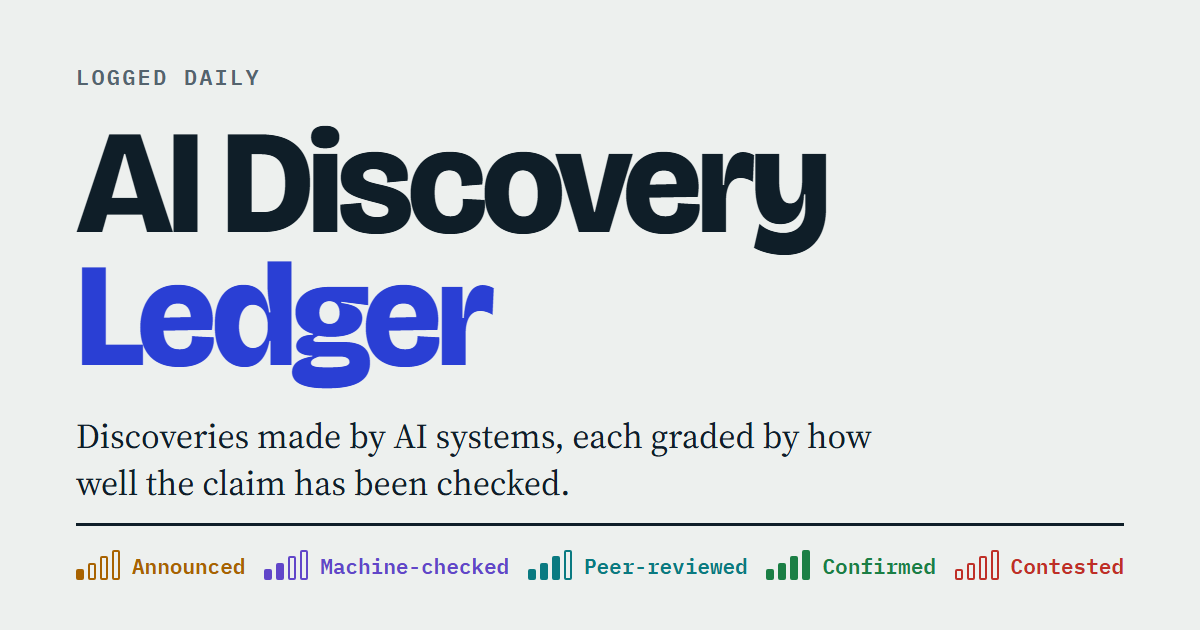
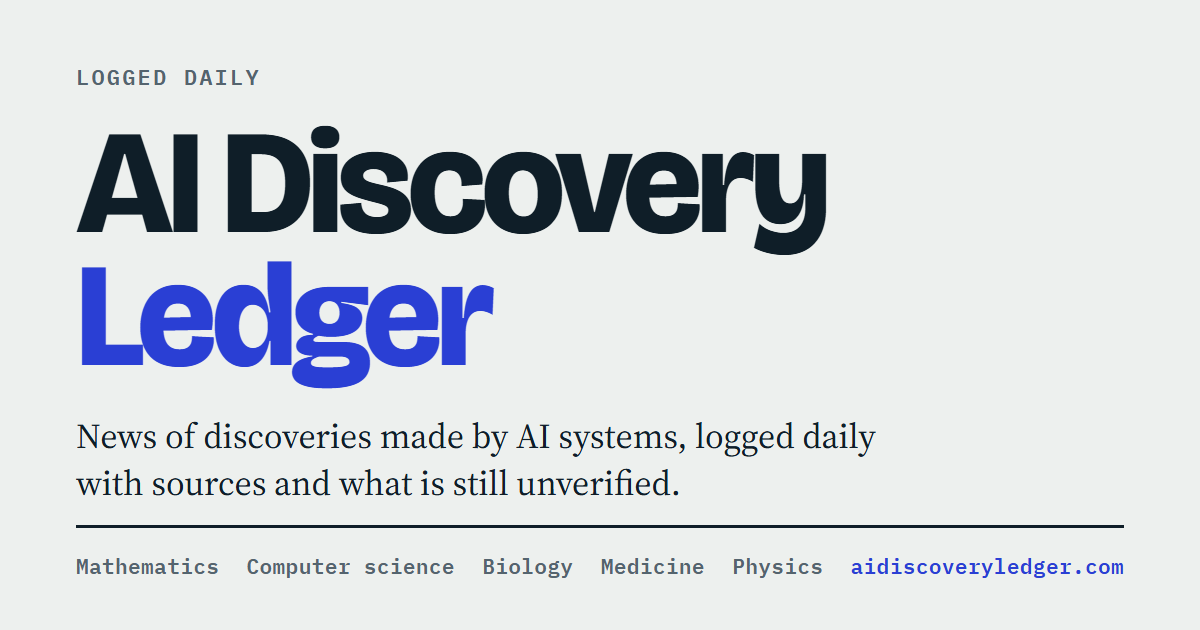
Make the ledger a plain news site: drop evidence grades
Entries no longer carry a grade or grade history. The site, feed and
share image now present each entry as news with sources and a note on
what is still unverified. Both routine prompts follow the new format.

Changed region(s): [[0.0617, 0.6635, 0.74, 0.7841], [0.0617, 0.8746, 0.9558, 0.9349], [0.0617, 0.8143, 0.925, 0.8444]]

diff --git a/static/assets/site.css b/static/assets/site.css
@@ -1,5 +1,4 @@
-/* Layout idea: a dated logbook. One reading column; mono for instrument data, serif for prose,
-   and a four-bar "signal strength" glyph on every entry showing how well the claim has been checked. */
+/* Layout idea: a dated logbook. One reading column; mono for dates and metadata, serif for prose. */
 :root {
   color-scheme: light dark;
   --bg: #edf0ee;
@@ -8,11 +7,6 @@
   --muted: #54646e;
   --rule: #c9d1cf;
   --accent: #2a3fd4;
-  --s1: #a86200;   /* announced */
-  --s2: #6146c9;   /* machine-checked */
-  --s3: #0a7a81;   /* peer-reviewed */
-  --s4: #1b7f45;   /* independently confirmed */
-  --sx: #bf2f27;   /* contested */
   --display: "Bricolage Grotesque", "Arial Narrow", "Helvetica Neue", sans-serif;
   --body: "Source Serif 4", Georgia, "Times New Roman", serif;
   --mono: "IBM Plex Mono", ui-monospace, Menlo, Consolas, monospace;
@@ -20,7 +14,7 @@
 @media (prefers-color-scheme: dark) {
   :root {
     --bg: #0c141a; --surface: #131e26; --ink: #e4ebee; --muted: #8fa0aa; --rule: #27353e;
-    --accent: #96a3ff; --s1: #e0a04a; --s2: #ac99ff; --s3: #4cc3c9; --s4: #5fcf8a; --sx: #ff7d72;
+    --accent: #96a3ff;
   }
 }
 * { box-sizing: border-box; }
@@ -67,9 +61,8 @@ a { color: var(--accent); text-underline-offset: 3px; }
 .months-grid { display: flex; align-items: flex-end; gap: 6px; min-height: 64px; }
 .month { flex: 1 1 0; min-width: 0; display: flex; flex-direction: column; align-items: stretch; gap: 6px; }
 .month .stack { display: flex; flex-direction: column-reverse; gap: 3px; min-height: 12px; border-bottom: 1px solid var(--rule); padding-bottom: 4px; }
-.month .tick { display: block; height: 9px; border-radius: 1px; background: var(--c); }
+.month .tick { display: block; height: 9px; border-radius: 1px; background: var(--accent); }
 .month .tick:hover, .month .tick:focus-visible { filter: brightness(1.25); }
-.month .tick.contested { background: repeating-linear-gradient(135deg, var(--sx) 0 3px, transparent 3px 6px); outline: 1px solid var(--sx); outline-offset: -1px; }
 .month .mlabel { font-family: var(--mono); font-size: 11px; color: var(--muted); text-align: center; }
 .caption { font-family: var(--mono); font-size: 11px; color: var(--muted); margin: 10px 0 0; }
 
@@ -99,15 +92,9 @@ a { color: var(--accent); text-underline-offset: 3px; }
   display: flex; justify-content: space-between; gap: 12px;
 }
 .day h2 span { color: var(--muted); font-weight: 400; }
-.entry { padding: 20px 0 22px; border-bottom: 1px solid var(--rule); }
+.entry { --c: var(--accent); padding: 20px 0 22px; border-bottom: 1px solid var(--rule); }
 .meta { display: flex; flex-wrap: wrap; align-items: center; gap: 6px 12px; font-family: var(--mono); font-size: 12px; color: var(--muted); }
 .field { text-transform: uppercase; letter-spacing: .06em; color: var(--ink); font-weight: 600; }
-.evidence { display: inline-flex; align-items: center; gap: 7px; color: var(--c); font-weight: 600; }
-.bars { display: inline-flex; align-items: flex-end; gap: 2px; height: 14px; flex: none; }
-.bars i { width: 4px; border-radius: 1px; border: 1px solid var(--c); }
-.bars i:nth-child(1) { height: 5px; } .bars i:nth-child(2) { height: 8px; }
-.bars i:nth-child(3) { height: 11px; } .bars i:nth-child(4) { height: 14px; }
-.bars i.on { background: var(--c); }
 .entry h3 {
   font-family: var(--display); font-weight: 700; font-size: 1.5rem; line-height: 1.12;
   letter-spacing: -.015em; margin: 10px 0 6px; text-wrap: balance;
@@ -146,11 +133,6 @@ a { color: var(--accent); text-underline-offset: 3px; }
 .method { margin-top: 48px; padding: 28px 0 8px; border-top: 2px solid var(--ink); }
 .method h2 { font-family: var(--display); font-weight: 700; font-size: 1.6rem; letter-spacing: -.015em; margin: 0 0 12px; }
 .method p { max-width: 65ch; margin: 0 0 14px; }
-.ladder { list-style: none; margin: 0 0 22px; padding: 0; border-top: 1px solid var(--rule); }
-.ladder li { display: grid; grid-template-columns: 30px 1fr; gap: 4px 10px; padding: 12px 0; border-bottom: 1px solid var(--rule); align-items: start; }
-.ladder .bars { margin-top: 5px; }
-.ladder strong { font-family: var(--mono); font-size: 13px; color: var(--c); display: block; }
-.ladder span.d { font-size: 15.5px; }
 footer { padding: 22px 0 48px; font-family: var(--mono); font-size: 12px; color: var(--muted); }
 footer p { margin: 0 0 8px; }
 
@@ -167,18 +149,6 @@ footer p { margin: 0 0 8px; }
 }
 .entry.single p.sum { font-size: 18.5px; }
 .entry.single .open { font-size: 16.5px; }
-.grade-note {
-  display: flex; gap: 12px; align-items: flex-start; margin: 22px 0 0; padding-top: 16px;
-  border-top: 1px solid var(--rule); font-size: 15.5px; max-width: 65ch;
-}
-.grade-note .bars { margin-top: 5px; }
-.grade-note strong { font-family: var(--mono); font-size: 13px; color: var(--c); }
-.history { margin-top: 22px; }
-.history h2 { font-family: var(--mono); font-weight: 600; font-size: 12px; letter-spacing: .06em; text-transform: uppercase; color: var(--muted); margin: 0 0 4px; }
-.history ol { list-style: none; margin: 0; padding: 0; }
-.history li { display: grid; grid-template-columns: 7.2em 1fr; gap: 4px 12px; padding: 10px 0; border-top: 1px solid var(--rule); font-size: 15.5px; }
-.history time { font-family: var(--mono); font-size: 12.5px; color: var(--muted); padding-top: 3px; }
-.history strong { font-family: var(--mono); font-size: 13px; display: block; }
 .pager { display: grid; grid-template-columns: 1fr 1fr; gap: 20px; padding: 18px 0 0; }
 .pager a { font-family: var(--display); font-weight: 700; font-size: 1.02rem; line-height: 1.2; color: var(--ink); text-decoration: none; }
 .pager a:hover { color: var(--accent); }
@@ -192,7 +162,6 @@ footer p { margin: 0 0 8px; }
   .tally dd { font-size: clamp(1.2rem, 6vw, 1.5rem); white-space: nowrap; }
   .entry h3 { font-size: 1.32rem; }
   .signup { padding: 20px 16px 18px; }
-  .history li { grid-template-columns: 1fr; gap: 0; }
   .pager { grid-template-columns: 1fr; }
   .pager .older { text-align: left; }
 }

diff --git a/tools/og-card.html b/tools/og-card.html
@@ -12,24 +12,14 @@
   h1 { font: 800 148px/0.9 "Bricolage Grotesque", sans-serif; letter-spacing: -.04em; margin: 26px 0 30px; }
   h1 span { color: #2a3fd4; }
   p { font-size: 35px; line-height: 1.32; margin: 0; max-width: 23em; }
-  .grades { position: absolute; left: 76px; right: 76px; bottom: 50px; padding-top: 24px; border-top: 3px solid #0f1e28; display: flex; justify-content: space-between; align-items: flex-end; font: 600 21px "IBM Plex Mono", monospace; }
-  .g { display: flex; align-items: flex-end; gap: 12px; color: var(--c); }
-  .bars { display: flex; align-items: flex-end; gap: 4px; height: 30px; }
-  .bars i { width: 8px; border: 2px solid var(--c); border-radius: 2px; }
-  .bars i:nth-child(1) { height: 11px; } .bars i:nth-child(2) { height: 17px; } .bars i:nth-child(3) { height: 24px; } .bars i:nth-child(4) { height: 30px; }
-  .bars i.on { background: var(--c); }
+  .grades { position: absolute; left: 76px; right: 76px; bottom: 50px; padding-top: 24px; border-top: 3px solid #0f1e28; display: flex; justify-content: space-between; align-items: flex-end; font: 600 21px "IBM Plex Mono", monospace; color: #54646e; letter-spacing: .02em; }
+  .grades span:last-child { color: #2a3fd4; }
 </style>
 </head>
 <body>
   <div class="kicker">Logged daily</div>
   <h1>AI Discovery <span>Ledger</span></h1>
-  <p>Discoveries made by AI systems, each graded by how well the claim has been checked.</p>
-  <div class="grades">
-    <span class="g" style="--c:#a86200"><span class="bars"><i class="on"></i><i></i><i></i><i></i></span>Announced</span>
-    <span class="g" style="--c:#6146c9"><span class="bars"><i class="on"></i><i class="on"></i><i></i><i></i></span>Machine-checked</span>
-    <span class="g" style="--c:#0a7a81"><span class="bars"><i class="on"></i><i class="on"></i><i class="on"></i><i></i></span>Peer-reviewed</span>
-    <span class="g" style="--c:#1b7f45"><span class="bars"><i class="on"></i><i class="on"></i><i class="on"></i><i class="on"></i></span>Confirmed</span>
-    <span class="g" style="--c:#bf2f27"><span class="bars"><i></i><i></i><i></i><i></i></span>Contested</span>
-  </div>
+  <p>News of discoveries made by AI systems, logged daily with sources and what is still unverified.</p>
+  <div class="grades"><span>Mathematics</span><span>Computer science</span><span>Biology</span><span>Medicine</span><span>Physics</span><span>aidiscoveryledger.com</span></div>
 </body>
 </html>

diff --git a/static/assets/site.js b/static/assets/site.js
@@ -6,18 +6,17 @@
   filters.hidden = false;
 
   var entries = Array.prototype.map.call(feed.querySelectorAll(".entry"), function (el) {
-    return { el: el, field: el.dataset.field, grade: el.dataset.grade, hay: el.textContent.toLowerCase() };
+    return { el: el, field: el.dataset.field, hay: el.textContent.toLowerCase() };
   });
   var days = feed.querySelectorAll(".day");
   var empty = document.getElementById("empty");
   var chips = filters.querySelectorAll(".chip");
-  var state = { field: "All", grade: "all", q: "" };
+  var state = { field: "All", q: "" };
 
   function apply() {
     var shown = 0;
     entries.forEach(function (e) {
       var ok = (state.field === "All" || e.field === state.field) &&
-        (state.grade === "all" || e.grade === state.grade) &&
         (!state.q || e.hay.indexOf(state.q) !== -1);
       e.el.hidden = !ok;
       if (ok) shown++;
@@ -38,5 +37,4 @@
     });
   });
   document.getElementById("q").addEventListener("input", function (ev) { state.q = ev.target.value.trim().toLowerCase(); apply(); });
-  document.getElementById("grade").addEventListener("change", function (ev) { state.grade = ev.target.value; apply(); });
 })();

diff --git a/tools/weekly-draft-prompt.md b/tools/weekly-draft-prompt.md
@@ -1,29 +1,27 @@
-Draft this week's issue of "AI Discovery Ledger Weekly", the Friday email for the AI Discovery Ledger (https://aidiscoveryledger.com). You are running unattended in a fresh checkout of https://github.com/shalas11/ai-discovery-ledger: don't ask questions, and finish the whole job. You only read the repository; never commit or push. Steve reviews the draft and sends it from Buttondown himself, so nothing you do here is sent to anyone.
+Draft this week's issue of "AI Discovery Ledger Weekly", the Friday email for the AI Discovery Ledger (https://aidiscoveryledger.com), a news site about scientific and technical discoveries made by AI systems. You are running unattended in a fresh checkout of https://github.com/shalas11/ai-discovery-ledger: don't ask questions, and finish the whole job. You only read the repository; never commit or push. Steve reviews the draft and sends it from Buttondown himself, so nothing you do here is sent to anyone.
 
 1. Work out the dates. Today is the issue date (America/New_York, `TZ=America/New_York date +%F`). The issue week is the seven days ending yesterday (Friday through Thursday). The issue number is 1 plus the number of whole weeks from 2026-11-20 to today, never less than 1.
 
 2. Read README.md, then data/entries.json. From it collect:
    - New this week: entries whose `logged` date (or `date`, when there is no `logged`) falls in the issue week.
-   - Grade changes this week: items in any entry's `history` list dated in the issue week (from, to, note).
-   - The tally: total entries, how many are peer or confirmed, and the count for each grade.
-   Also run `git log --since="8 days ago" --format="%h %ad %s" --date=short -- data/entries.json` to catch anything else that changed in the week (an `open` text rewritten, a source added).
+   - Follow-ups this week: run `git log --since="8 days ago" -p -- data/entries.json` and note existing entries whose `open` text or sources changed in the week.
+   - The count: how many entries are new this week, and the total.
 
-3. Write the issue in five parts, in this order:
-   - **The lead.** The week's most significant item, explained for a curious non-specialist in about 200 words: what was claimed, by whom, why it matters, the grade it holds and why it stops at that grade. Pick a grade change over a new entry when the change is bigger news. Title it as a headline, not "The lead".
-   - **Up and down.** Every grade change in the week: "Up:" or "Down:" in bold with the entry and old → new grade, then the reason in one to three sentences. If there were none, write one sentence saying no grades moved.
-   - **Also logged.** Every other new entry: a bold short name with its grade in brackets, then two or three sentences, then its main source as a link.
-   - **Still open.** One thing to watch that could move a grade soon, taken from an entry's `open` text: what would move it up and what would move it down.
-   - **The tally.** One sentence with the counts.
-   Then a subject line that names the week's biggest movement (not the issue number), and one preview line of about 90 characters.
+3. Write the issue in this order:
+   - **The lead.** The week's biggest discovery, explained for a curious non-specialist in about 200 words: what was found, who found it and with which AI system, why it matters, and what is still unverified. Title it as a news headline, not "The lead".
+   - **Also this week.** Every other new entry: a bold short headline, then two or three sentences, then its main source as a link.
+   - **Follow-ups.** Only if there were any: one or two sentences each on what changed for an earlier story. Leave the section out when there are none.
+   - **The count.** One sentence: how many discoveries were logged this week and how many the ledger holds in total.
+   Then a subject line that names the week's biggest discovery (not the issue number), and one preview line of about 90 characters.
 
-4. Rules for the writing: Always write grades with the labels readers see on the site, never the data codes: announced = Announced, machine = Machine-checked, peer = Peer-reviewed, confirmed = Independently confirmed, contested = Contested. only state facts that are in data/entries.json (its `sum`, `open`, `history` notes and sources). Don't look anything up on the web and don't add numbers, names or dates that aren't there. Link each item to its source URLs from `src`, and to its ledger page at https://aidiscoveryledger.com/entry/<id>/. Plain words, sentences under 25 words, no hype ("breakthrough", "game-changing", "revolutionary"), no em dashes, no emoji. About a three-minute read in total (600 to 800 words). If the week had no new entries and no grade changes, still write the issue, keep it short, and say so in the note to Steve.
+4. Rules for the writing: this is news, so report what was found; don't rate or grade claims. Only state facts that are in data/entries.json (its `sum`, `open` and sources). Don't look anything up on the web and don't add numbers, names or dates that aren't there. Link each item to its source URLs from `src`, and to its ledger page at https://aidiscoveryledger.com/entry/<id>/. Plain words, sentences under 25 words, no hype ("breakthrough", "game-changing", "revolutionary"), no em dashes, no emoji. About a three-minute read in total (600 to 800 words). If the week had nothing new, still write a short issue and say so in the note to Steve.
 
 5. Put the draft in a new Claude Doc with the Claude Docs connector (load its tools with ToolSearch, query "Claude_Docs", if they are deferred; call its `guide` tool with items ["topic.index"] once before anything else and follow it). Name the doc "AI Discovery Ledger Weekly, Issue <N> draft (<D Mon YYYY>)". Its layout:
    - Title, then the byline the guide describes (date chip for today · mention of "me").
    - "Subject line" and "Preview" as two short labelled lines.
-   - The five parts as `##` sections.
-   - Last line, in italics: "This newsletter is written from the AI Discovery Ledger, updated twice a day. Reply to this email if we graded something wrong."
-   - A final `## Before you send` section for Steve only (not part of the email): a short checklist of anything he should check, such as a claim resting on one source, a week with nothing new, or an entry whose `open` text looks out of date.
+   - The parts above as `##` sections.
+   - Last line, in italics: "This newsletter is written from the AI Discovery Ledger, updated twice a day. Reply to this email with tips or corrections."
+   - A final `## Before you send` section for Steve only (not part of the email): a short checklist of anything he should check, such as a story resting on one source, a week with nothing new, or a story whose `open` text looks out of date.
    Write the whole draft before creating the doc, then create it with its outline and fill it section by section as the guide says.
 
 6. Send Steve a push notification: "Issue <N> draft is ready: <subject line>", with the doc's link.

diff --git a/tools/routine-prompt.md b/tools/routine-prompt.md
@@ -1,27 +1,27 @@
-Twice-daily update of the AI Discovery Ledger (https://github.com/shalas11/ai-discovery-ledger, live at https://aidiscoveryledger.com/). The ledger logs scientific and technical results where an AI system did the discovering, and grades each by how well the claim has been checked. You are running unattended in a fresh checkout of that repository: don't ask questions, and finish the whole job.
+Twice-daily update of the AI Discovery Ledger (https://github.com/shalas11/ai-discovery-ledger, live at https://aidiscoveryledger.com/). The ledger is a news site: it publishes scientific and technical discoveries made by AI systems. You are running unattended in a fresh checkout of that repository: don't ask questions, and finish the whole job.
 
 The only file you change is data/entries.json. README.md in the repo describes its format; read it first. Every page, the RSS feed and the sitemap are generated from that file by `node build.mjs`, and a push to main publishes the site within a minute through GitHub Actions.
 
-1. Read data/entries.json. Note `checked` and every existing entry (id, title, date, grade, open).
+1. Read data/entries.json. Note `checked` and every existing entry (id, title, date, open).
 
 2. Search the web for AI-made discoveries announced in the last 14 days (not only since `checked`: earlier runs once missed a result for 11 days). Run several searches: mathematics and proofs, computer science, algorithms and cryptography, biology, protein and genome design, medicine and drug candidates, physics, chemistry and materials. Also check deepmind.google/blog, openai.com/news, anthropic.com/news, research.google/blog, ScienceDaily's AI news, phys.org, Quanta Magazine, and arXiv coverage. Fetch the primary source for each candidate before logging it. If a source can't be fetched, say so in your summary rather than guessing what it says.
 
 3. Inclusion bar: an AI system produced the central finding (a proof, a design that worked in the lab, a new algorithm, a pattern in data people had missed). Leave out model releases, funding, benchmark scores, product launches, opinion pieces, and work where AI only sped up routine tasks. Skip anything already in the ledger, including the same result under a different headline. Be selective: usually 0 to 3 new entries per run, and zero is fine.
 
-4. Check whether the public record has changed for existing entries, especially ones graded announced, machine or contested: independent verification, a peer-reviewed publication, a retraction, a formal objection, a fix answering an objection. When it has, change that entry's `grade`, rewrite its `open` text to match the new record, add the new source to `src`, and append one item to its `history` list: `{ "date": "<today>", "from": "<old grade>", "to": "<new grade>", "note": "<one sentence on what changed>" }`. Create the `history` list if the entry has none. A change that adds information without moving the grade only updates `open` and `src`.
+4. Follow-ups: if there is real news about an existing entry (a peer-reviewed publication, an independent check, a retraction, a published objection, a fix), rewrite that entry's `open` text to match and add the new source to its `src`. If the follow-up is big news on its own, log it as a new entry as well. Never change an existing entry's `id`.
 
 5. New entries go at the top of the `entries` list, newest first, in this exact shape:
-   { "id": "YYYY-MM-DD-short-slug", "date": "YYYY-MM-DD", "logged": "<today>", "field": "...", "grade": "...", "title": "...", "who": "...", "system": "...", "sum": "...", "open": "...", "src": [{ "label": "...", "url": "https://..." }] }
+   { "id": "YYYY-MM-DD-short-slug", "date": "YYYY-MM-DD", "logged": "<today>", "field": "...", "title": "...", "who": "...", "system": "...", "sum": "...", "open": "...", "src": [{ "label": "...", "url": "https://..." }] }
    - `date` is the announcement or publication date. `logged` is today's date in America/New_York.
-   - `id` is permanent (it is the entry's web address): lowercase letters, digits and hyphens, starting with `date`. Never change an existing id.
+   - `id` is permanent (it is the entry's web address): lowercase letters, digits and hyphens, starting with `date`.
    - `field`: reuse an existing one (Mathematics, Computer science, Biology, Medicine, Physics) or a new plain one such as Chemistry, Materials, Astronomy, Engineering.
-   - `grade`: announced = the lab or company is the only source; machine = a formal proof compiles but people haven't confirmed it matches the claim; peer = published in a refereed journal; confirmed = outside experts checked, reproduced or built on it; contested = retraction, credit dispute or serious unresolved objection.
-   - Write `title`, `sum` (2 to 3 sentences, concrete numbers, plain words) and `open` (what is still unverified or limited, or "" if nothing) in your own words. Never copy sentences from a source. Only state facts you read in a source you fetched, and only use URLs you fetched.
+   - `title` is a plain news headline. `sum` is 2 to 3 sentences with concrete numbers in plain words. `open` says what is still unverified or limited (for example "The company is the only source" or "Not yet peer reviewed"), or "" if nothing.
+   - Write everything in your own words. Never copy sentences from a source. Only state facts you read in a source you fetched, and only use URLs you fetched.
 
 6. Set `checked` to today's date in America/New_York, even when nothing else changed.
 
 7. Run `node build.mjs`. It checks the file and stops with a list of problems if anything is malformed; fix them and run it again until it prints "Built N entries". Then run `git diff --stat` and confirm data/entries.json is the only changed file (dist/ is ignored). Undo any other change.
 
-8. Commit directly on main, with a message whose first line is "Ledger update YYYY-MM-DD" followed by one line per change ("Added: <title> (<grade>)", "Regraded: <title>, <from> to <to>"), or "No new entries" when only the date moved. Then `git push origin main`. If the push is rejected because main moved, run `git pull --rebase origin main`, run `node build.mjs` again, and push once more. Do not open a pull request and do not push to any other branch.
+8. Commit directly on main, with a message whose first line is "Ledger update YYYY-MM-DD" followed by one line per change ("Added: <title>", "Updated: <title>"), or "No new entries" when only the date moved. Then `git push origin main`. If the push is rejected because main moved, run `git pull --rebase origin main`, run `node build.mjs` again, and push once more. Do not open a pull request and do not push to any other branch.
 
-9. Finish with a short summary: entries added (title, grade, main source), grade changes, sources you couldn't fetch, or "nothing met the bar this run".
+9. Finish with a short summary: entries added (title, main source), entries updated, sources you couldn't fetch, or "nothing met the bar this run".

diff --git a/README.md b/README.md
@@ -1,12 +1,12 @@
 # AI Discovery Ledger
 
-A running record of scientific and technical results where an AI system did the discovering. Every entry carries a grade for how well the claim has been checked.
+News of scientific and technical discoveries made by AI systems, logged daily with sources and what is still unverified.
 
 The site is plain static files built from one data file. There are no dependencies beyond Node 20 or newer.
 
 ## Updating the ledger
 
-Everything on the site comes from `data/entries.json`. Edit that file and push to `main`; the workflow in `.github/workflows/pages.yml` rebuilds and publishes the site. If the file has a mistake (a missing field, a duplicate id, an unknown grade) the build fails and the live site stays as it was.
+Everything on the site comes from `data/entries.json`. Edit that file and push to `main`; the workflow in `.github/workflows/pages.yml` rebuilds and publishes the site. If the file has a mistake (a missing field, a duplicate id, a bad date) the build fails and the live site stays as it was.
 
 ```json
 {
@@ -17,14 +17,12 @@ Everything on the site comes from `data/entries.json`. Edit that file and push t
       "date": "2026-11-06",
       "logged": "2026-11-17",
       "field": "Computer science",
-      "grade": "machine",
       "title": "…",
       "who": "…",
       "system": "…",
       "sum": "…",
       "open": "…",
-      "src": [{ "label": "PSI", "url": "https://…" }],
-      "history": [{ "date": "2026-11-17", "from": "announced", "to": "machine", "note": "…" }]
+      "src": [{ "label": "PSI", "url": "https://…" }]
     }
   ]
 }
@@ -36,10 +34,8 @@ Everything on the site comes from `data/entries.json`. Edit that file and push t
 | `id` | Permanent. It is the entry's address (`/entry/<id>/`), so never change it once published. Lowercase letters, digits and hyphens. |
 | `date` | When the result was announced or published. |
 | `logged` | When the entry was added here. Optional; used for the feed order. |
-| `grade` | `announced`, `machine`, `peer`, `confirmed` or `contested`. |
-| `open` | What is still unresolved. May be an empty string. |
+| `open` | What is still unverified or limited. May be an empty string. Rewritten when follow-up news arrives. |
 | `src` | At least one source with a label and a link. |
-| `history` | Optional. Add one item each time the grade changes; the entry page and the RSS feed both show it. |
 
 New entries go at the top of the list.
 
